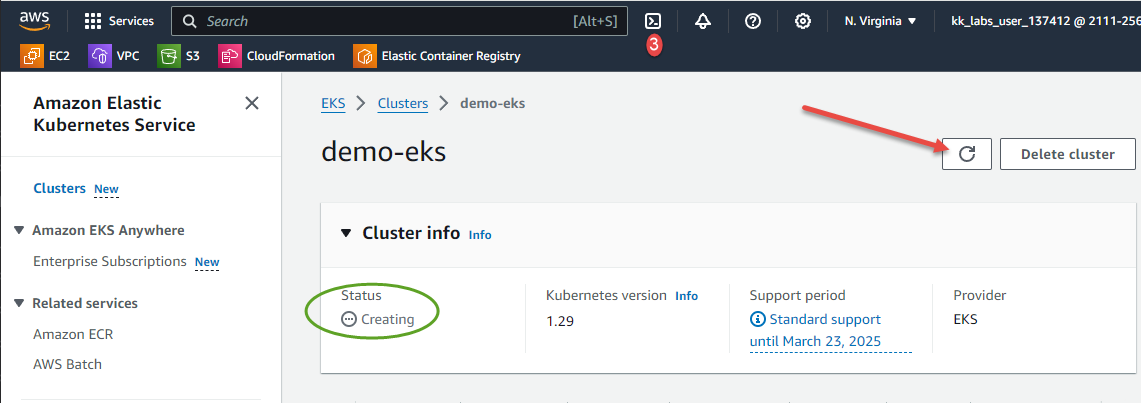
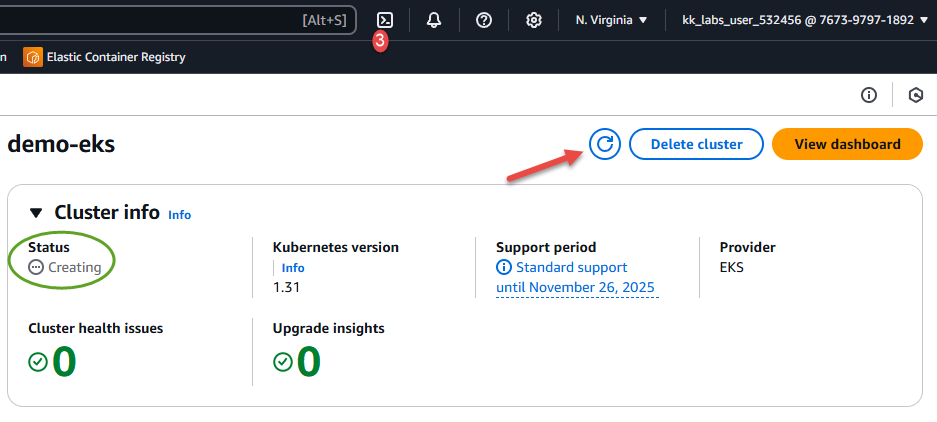
Updating EKS for new UI

diff --git a/managed-clusters/eks/console/docs/06-nodes.md b/managed-clusters/eks/console/docs/06-nodes.md
@@ -4,7 +4,7 @@ Now we will add some *unmanaged* nodes to the cluster. AWS Playground does not s
 
 1. Create an SSH keypair for the nodes to use
     1. Navigate to the EC2 console by typing `ec2` in the search box at the top, and then selecting it from the list.
-    1. Scroll down the menu on the left until you see `Key Pairs`, then click that to enter the key piars console.
+    1. Scroll down the menu on the left until you see `Key Pairs`, then click that to enter the key pairs console.
     1. Click the orange `Create key pair` button at the top right
     1. Fill out the form using `node-key-pair` as name, `RSA` as key pair type and `.pem` as private key format
 
@@ -30,7 +30,7 @@ Now we will add some *unmanaged* nodes to the cluster. AWS Playground does not s
     1. `Subnets`. Sadly the drop-list does not show the AZ of the nets so it is fiddly to determine which ones to select
         1. Open the [subnets console](https://us-east-1.console.aws.amazon.com/vpcconsole/home?region=us-east-1#subnets:) in another browser tab or window.
         1. Click on each subnet to view its information in the lower pane.
-        1. Note the IPv4 CIDR for the ones that are in `us-east-1a`, `us-east-1b` annd `us-east-1c`
+        1. Note the IPv4 CIDR for the ones that are in the subnets you selected when configuring cluster networking.
 
             ![](../images/06-subnets.png)
 

diff --git a/managed-clusters/eks/console/docs/03-configure-cluster.md b/managed-clusters/eks/console/docs/03-configure-cluster.md
@@ -8,13 +8,19 @@ Now we will configure the cluster options
 
     ![](../images/03-eks.png)
 
-1. Click on orange `Add cluster` button. This will open a list, and from that, choose `Create
+1. Click on orange `Create cluster` button. This will open a list, and from that, choose `Create
 
     ![](../images/03-add-cluster.png)
 
-1. In the Configure Cluster page, enter the name as `demo-eks` and select the cluster service role created above. Then scroll to the end and press `Next` button.
-
-    ![](../images/03-configure.png)
+1. In the Configure Cluster page:
+    1. Select `Custom Configuration`
+    1. Ensure `EKS Auto Mode` is switched OFF
+      ![](../images/03-configure.png)
+    1. Enter the name as `demo-eks` and select the cluster service role created above.
+      ![](../images/03-configure-2.png)
+    1. Enable ConfigMap for authentication (it's needed to join nodes later)
+      ![](../images/03-configure-3.png)
+    1. Then scroll to the end and press `Next` button.
 
 Prev: [Create Service Role](./02-create-service-role.md)<br/>
 Next: [Networking](./04-networking.md)

diff --git a/managed-clusters/eks/console/docs/04-networking.md b/managed-clusters/eks/console/docs/04-networking.md
@@ -2,11 +2,7 @@
 
 1. Select VPC - there should only be one choice, the Default VPC.
 
-1. Select values for the Subnets fields. When you click on `Select subnets`, a drop list will appear. All subnets will be selected.
-
-    For the availability zone `us-east-1e`, users cannot make changes or use it. So in our EKS Cluster creation, we will not select the subnet from the `us-east-1e` availability zone.
-
-    You must select at least two subnets for a cluster to be valid. In this tutorial we will use subnets from `us-east-1a`, `us-east-1b`, `us-east-1c` availability zones, so deselect the others.
+1. Select values for the Subnets fields. There needs to be at least two subnets selected. ad we don't need more than 3. Ensure that `us-east-1e` is *not* one of the selected subnets.
 
     ![](../images/04-subnets.png)
 

diff --git a/managed-clusters/eks/console/README.md b/managed-clusters/eks/console/README.md
@@ -1,4 +1,8 @@
 # EKS cluster using the Console
 
-Create an EKS cluster using the KodeKloud AWS Playground's console. [Click here](./docs/01-sign-in.md) to get started!
+Last updated: December 2024
+
+Create an EKS cluster using the KodeKloud AWS Playground's console. Due to policy restrictions in the playground, it is important to follow these instructions *to the letter*. Do not change any names for things like the cluster or role names or it will not work.
+
+[Click here](./docs/01-sign-in.md) to get started!
 
